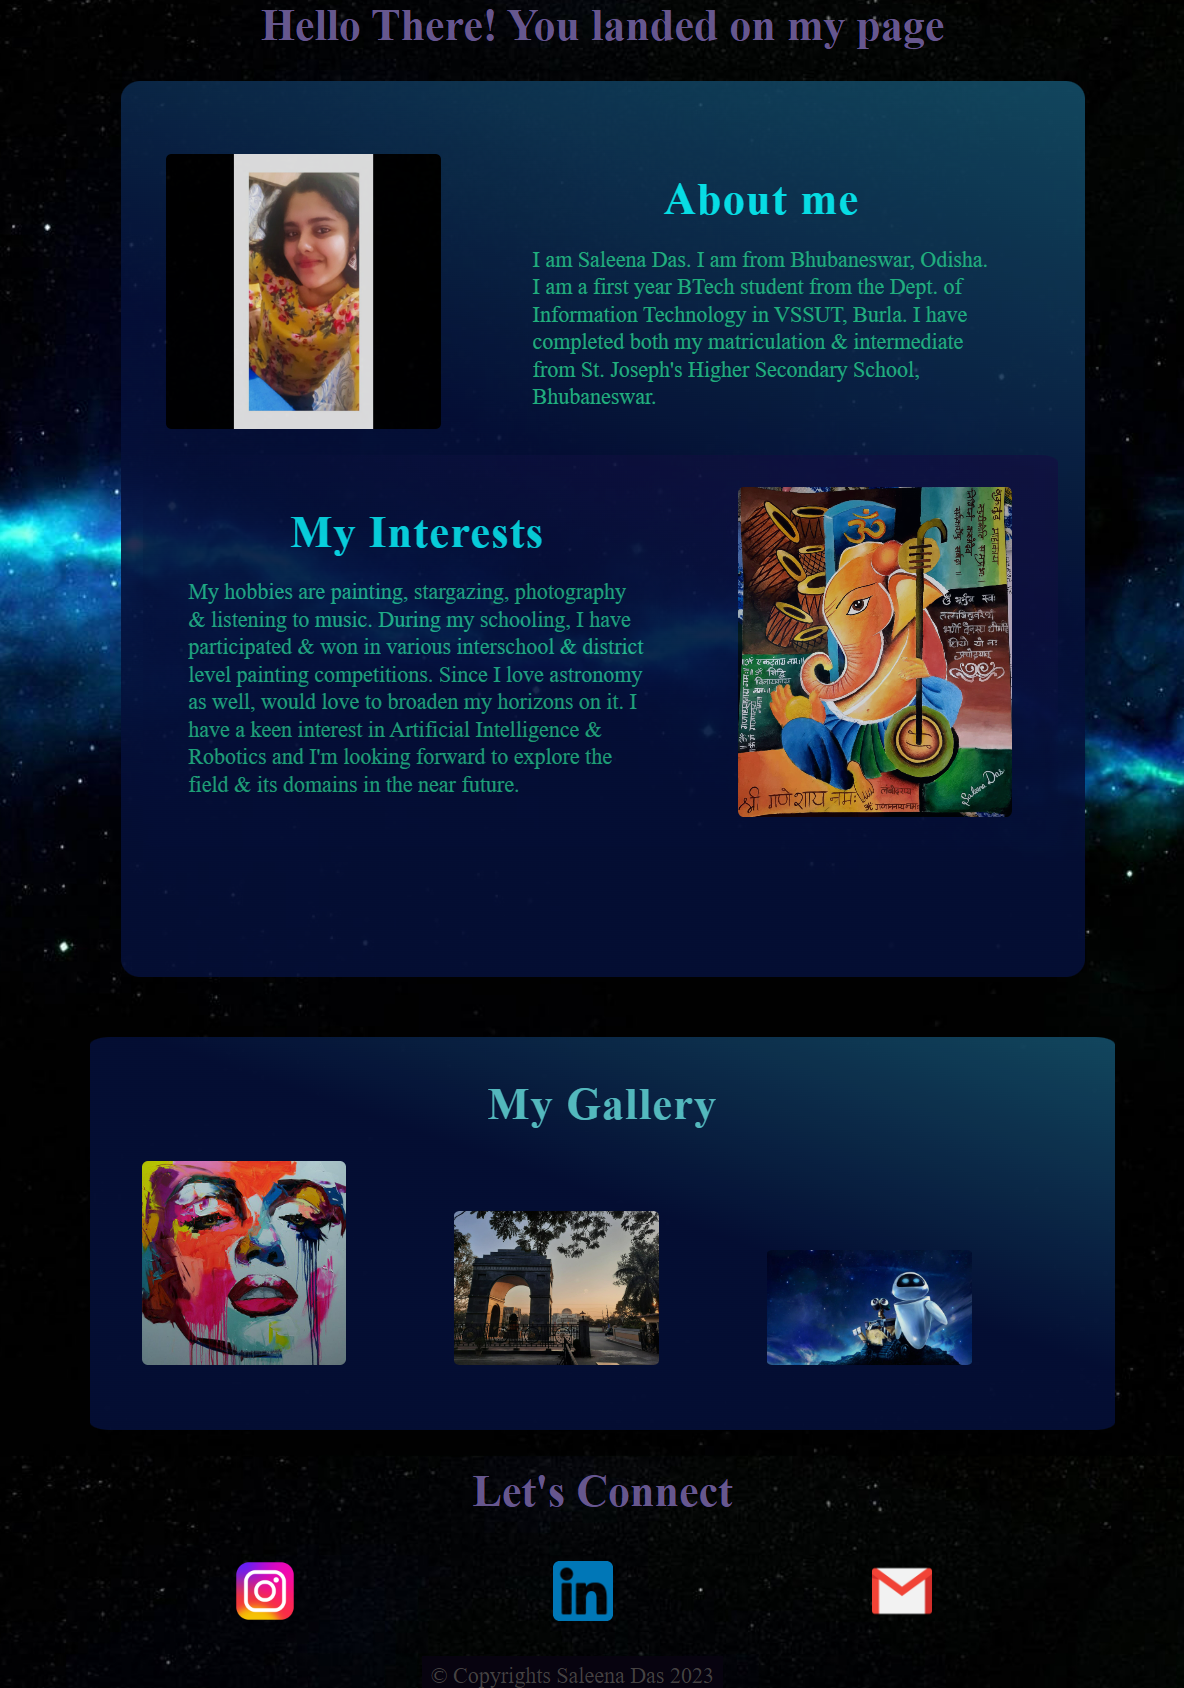
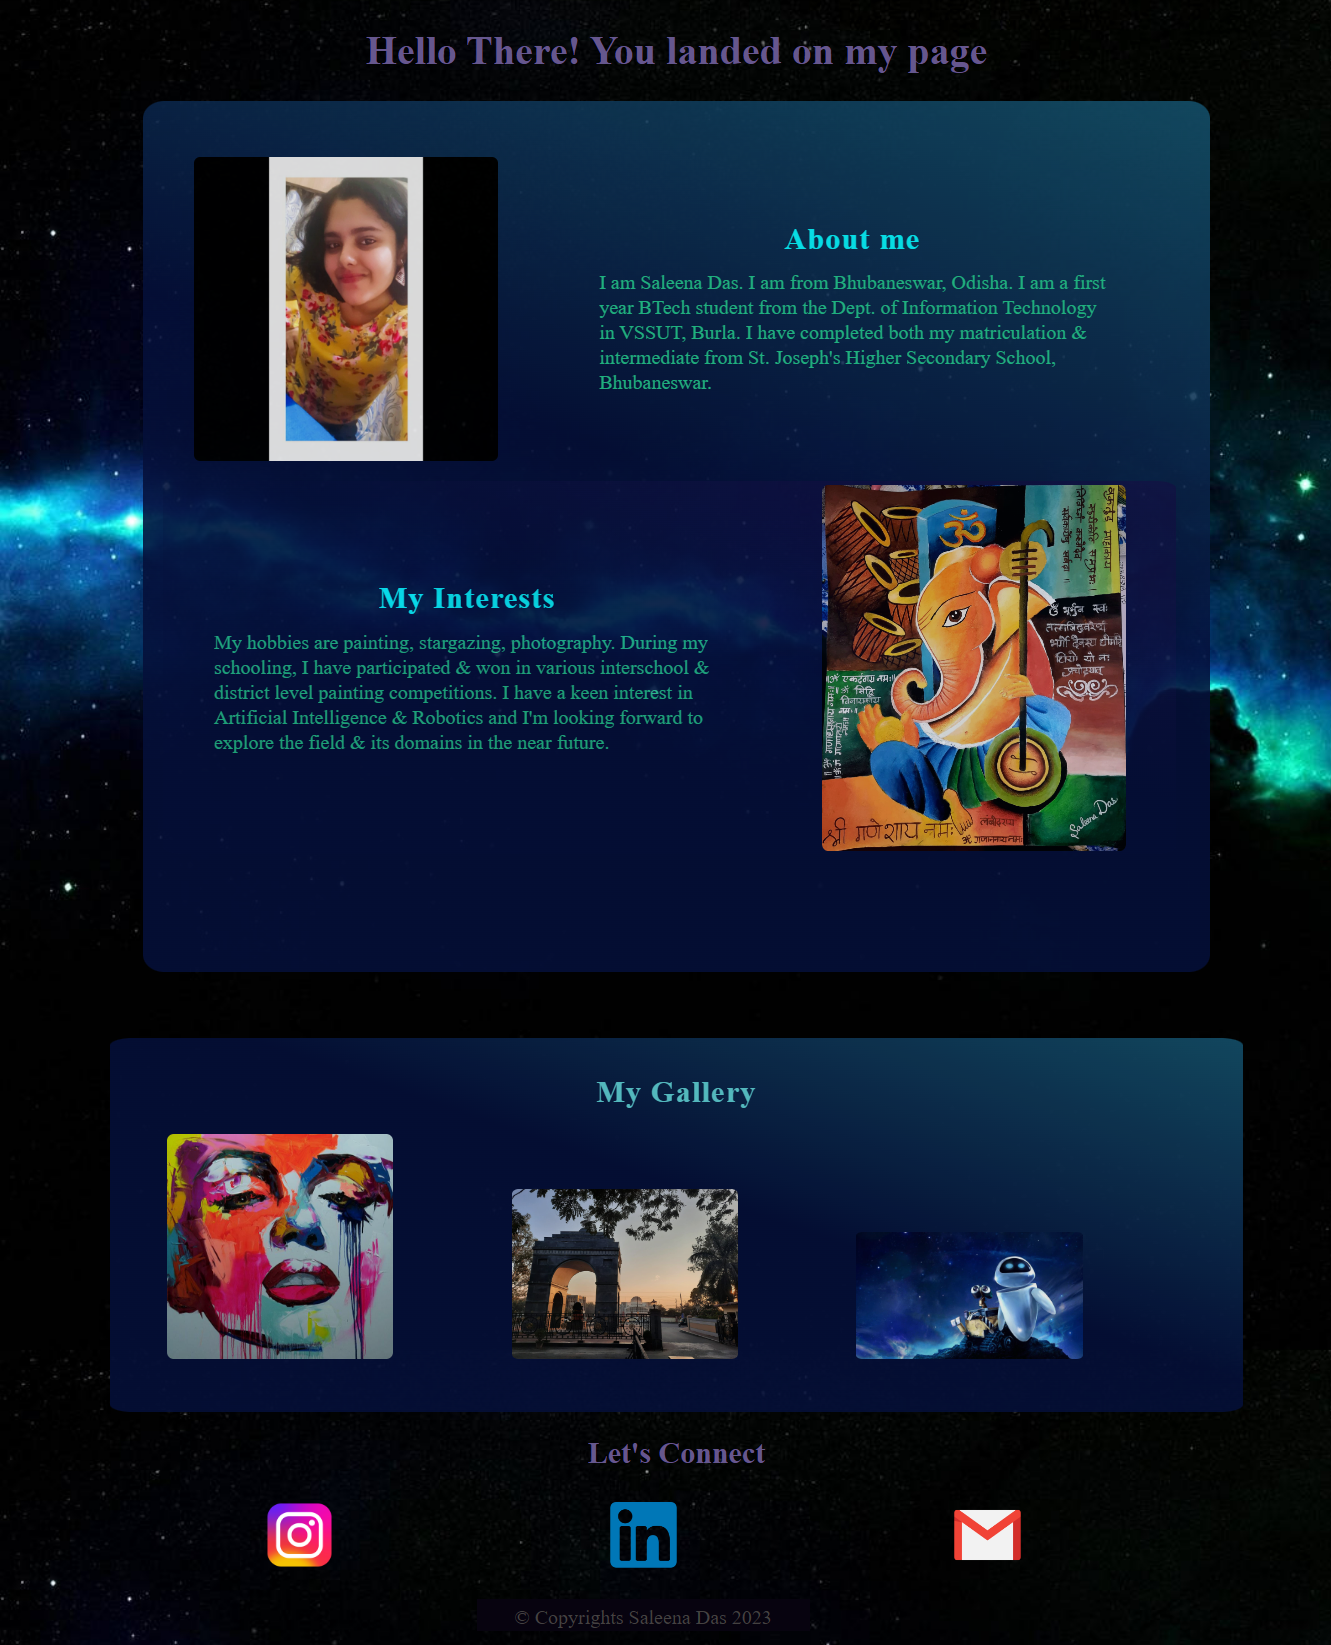
completed web task 1, added responsivesness

diff --git a/Web Development/Task-1/Task Submission/Saleena Das/style.css b/Web Development/Task-1/Task Submission/Saleena Das/style.css
@@ -52,6 +52,7 @@ h1{
 
 }
 
+
 .photos{
     margin-top: -1%;
 
@@ -97,6 +98,7 @@ h1{
 .about-text{
     width: 600px;
     width: 80%;
+
 }
 
 .about-text h1{
@@ -106,14 +108,14 @@ h1{
 
 }
 
-
-/*.gallery h1{
-    color: rgb(52, 200, 138);
+.gallery h1{
+    color: rgb(8, 244, 252);
+    color: rgb(240, 245, 245);
     letter-spacing: 1px;
     line-height: 28px;
     line-height: 20px;
 
-}*/
+}
 
 .gallery{
     display: flex;
@@ -133,7 +135,6 @@ h1{
 .about-text p{
     color: rgb(35, 195, 139);
     margin-top: -1%;
-
 }
 
 .photos img{
@@ -153,7 +154,6 @@ h1{
     margin-top: 20%;
 }
 
-
 .main{
     width: 1130px;
     max-width: 95%;
@@ -162,6 +162,7 @@ h1{
     align-items: center;
     justify-content: space-around;
 }
+
 
 .Hobbies{
     width: 1130px;
@@ -178,13 +179,33 @@ h1{
     line-height: 28px;
 }
 
-/*@media only screen and (max-width:800px) {*/
+@media only screen and (max-width: 767px) {
+    body {
+        background-image: url(Pictures/bgim1.jpg);
+    }
+    .h1{
+      font-size: 14px;
+    }
+  }
+
+@media only screen and (min-width: 768px) and (max-width: 1023px){
     body{
         background-image: url(Pictures/bgim1.jpg);
     }
     h1{
-        font-size: 200%;
+        font-size: 16px;
     }
+}    
+
+
+@media only screen and (min-width: 1024px) {
+    body{
+        background-image: url(Pictures/bgim1.jpg);
+    }
+    .h1{
+          font-size: 18px;
+        }
+    }   
 
     .about-text{
         width: 50%;
@@ -205,32 +226,31 @@ h1{
     }
 
         .links a{
-        margin: 1000px 50;
-        font-size: 80%;
-        padding: 8px;
-        display: unset;
-        
-    }
-    .links img{
-        height: 5%;
-        width: 5%;
-        border-radius: 10px;
-        border: 0;
-        padding: 5px;
-        margin-left: 18%;
-    }
-
-    .tag{
-        text-align:center;
-        font-size: 100;
-        padding-top: 5px;
-        color:rgb(68, 65, 65);
-        
-        height:20px;
-        width:25%;
-        margin-left: 35%;
-        background-color: #07030f ;   
-    }
+            margin: 1000px 50;
+            font-size: 80%;
+            padding: 8px;
+            display: unset;
+        }
+        .links img{
+            height: 5%;
+            width: 5%;
+            border-radius: 10px;
+            border: 0;
+            padding: 5px;
+            margin-left: 18%;
+        }
+    
+        .tag{
+            text-align:center;
+            font-size: 100;
+            padding-top: 5px;
+            color:rgb(68, 65, 65);
+            
+            height:20px;
+            width:25%;
+            margin-left: 35%;
+            background-color: #07030f ;   
+        } 
 
 
 

diff --git a/Web Development/Task-1/Task Submission/Saleena Das/index.html b/Web Development/Task-1/Task Submission/Saleena Das/index.html
@@ -4,7 +4,7 @@
     <meta charset="UTF-8">
     <meta http-equiv="X-UA-Compatible" content="IE=edge">
     <meta name="viewport" content="width=device-width, initial-scale=1.0">
-    <link rel="stylesheet" href="style4.css">
+    <link rel="stylesheet" href="style.css">
     <title>Saleena's Webpage</title>
 </head>
 <body>
@@ -23,8 +23,8 @@
         <div class="Hobbies">
             <div class="about-text">
                 <h1>My Interests</h1>
-                <p>My hobbies are painting, stargazing, photography & listening to music. During my schooling, I have participated & won in various
-                    interschool & district level painting competitions. Since I love astronomy as well, would love to broaden my horizons on it. I have a keen interest in Artificial Intelligence & Robotics and I'm looking forward to explore the field & its domains in the near future.</p>
+                <p>My hobbies are painting, stargazing, photography. During my schooling, I have participated & won in various
+                    interschool & district level painting competitions. I have a keen interest in Artificial Intelligence & Robotics and I'm looking forward to explore the field & its domains in the near future.</p>
             </div>
             <img src="Pictures/paint.jpg" class="Lord Ganesha" height="200px">
         </div>
